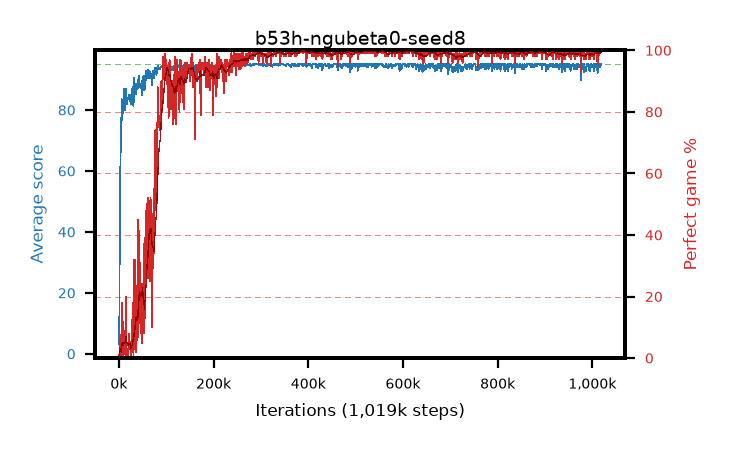
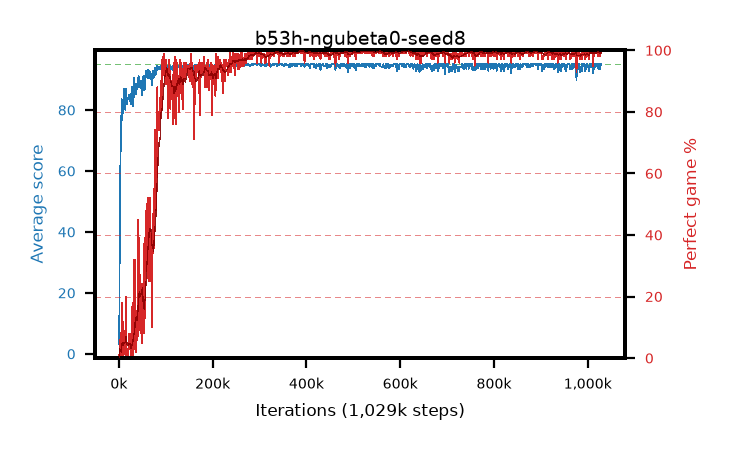
live pictures of 4 arm(s)

diff --git a/results/b53e-ngubeta0-seed5/b53e-ngubeta0-seed5.md b/results/b53e-ngubeta0-seed5/b53e-ngubeta0-seed5.md
@@ -1,6 +1,6 @@
 # b53e-ngubeta0-seed5
 
-step **1,009,000** · 1009 evals · trailing **94.23** · peak **94.95** @437,000 · sef **90.0** · best30 **99.8** @530,000
+step **1,019,000** · 1019 evals · trailing **94.11** · peak **94.95** @437,000 · sef **90.1** · best30 **99.8** @530,000
 
 ## Config
 
@@ -80,15 +80,15 @@ step **1,009,000** · 1009 evals · trailing **94.23** · peak **94.95** @437,00
 | 2000 | 29.39 | 17.35 | 3.0 | 54.0 | 24.459 | 0.0 | 0.4 |
 | 3000 | 50.81 | 28.5 | 16.0 | 85.0 | 45.457 | 0.0 | 0.4 |
 | ... | ... | ... | ... | ... | ... | ... | ... |
-| 998000 | 95.0 | 94.41 | 95.0 | 95.0 | 193.777 | 100.0 | 0.4 |
-| 999000 | 94.26 | 94.41 | 21.0 | 95.0 | 191.995 | 99.0 | 0.4 |
-| 1000000 | 94.29 | 94.41 | 24.0 | 95.0 | 192.034 | 99.0 | 0.4 |
-| 1001000 | 93.46 | 94.36 | 14.0 | 95.0 | 190.169 | 98.0 | 0.4 |
-| 1002000 | 93.09 | 94.29 | 16.0 | 95.0 | 188.754 | 97.0 | 0.4 |
-| 1003000 | 92.82 | 94.24 | 19.0 | 95.0 | 188.49 | 97.0 | 0.4 |
-| 1004000 | 93.43 | 94.23 | 14.0 | 95.0 | 189.135 | 97.0 | 0.4 |
-| 1005000 | 95.0 | 94.28 | 95.0 | 95.0 | 193.775 | 100.0 | 0.4 |
-| 1006000 | 95.0 | 94.3 | 95.0 | 95.0 | 193.779 | 100.0 | 0.4 |
-| 1007000 | 94.31 | 94.28 | 26.0 | 95.0 | 192.051 | 99.0 | 0.4 |
 | 1008000 | 93.49 | 94.23 | 18.0 | 95.0 | 190.194 | 98.0 | 0.4 |
 | 1009000 | 95.0 | 94.23 | 95.0 | 95.0 | 193.778 | 100.0 | 0.4 |
+| 1010000 | 95.0 | 94.23 | 95.0 | 95.0 | 193.778 | 100.0 | 0.4 |
+| 1011000 | 93.58 | 94.21 | 22.0 | 95.0 | 190.287 | 98.0 | 0.4 |
+| 1012000 | 95.0 | 94.21 | 95.0 | 95.0 | 193.781 | 100.0 | 0.4 |
+| 1013000 | 95.0 | 94.21 | 95.0 | 95.0 | 193.781 | 100.0 | 0.4 |
+| 1014000 | 94.24 | 94.21 | 19.0 | 95.0 | 191.983 | 99.0 | 0.4 |
+| 1015000 | 94.26 | 94.18 | 21.0 | 95.0 | 191.996 | 99.0 | 0.4 |
+| 1016000 | 92.75 | 94.16 | 18.0 | 95.0 | 188.403 | 97.0 | 0.4 |
+| 1017000 | 93.42 | 94.18 | 15.0 | 95.0 | 190.122 | 98.0 | 0.4 |
+| 1018000 | 92.76 | 94.11 | 17.0 | 95.0 | 188.424 | 97.0 | 0.4 |
+| 1019000 | 93.55 | 94.11 | 20.0 | 95.0 | 190.25 | 98.0 | 0.4 |

diff --git a/results/b53h-ngubeta0-seed8/b53h-ngubeta0-seed8.md b/results/b53h-ngubeta0-seed8/b53h-ngubeta0-seed8.md
@@ -1,6 +1,6 @@
 # b53h-ngubeta0-seed8
 
-step **1,019,000** · 1019 evals · trailing **94.38** · peak **94.92** @356,000 · sef **90.8** · best30 **99.7** @539,000
+step **1,029,000** · 1029 evals · trailing **94.45** · peak **94.92** @356,000 · sef **90.9** · best30 **99.7** @539,000
 
 ## Config
 
@@ -80,15 +80,15 @@ step **1,019,000** · 1019 evals · trailing **94.38** · peak **94.92** @356,00
 | 2000 | 50.19 | 26.7 | 2.0 | 95.0 | 51.185 | 6.0 | 0.4 |
 | 3000 | 57.71 | 37.03 | 27.0 | 95.0 | 54.481 | 2.0 | 0.4 |
 | ... | ... | ... | ... | ... | ... | ... | ... |
-| 1008000 | 94.26 | 94.2 | 21.0 | 95.0 | 191.996 | 99.0 | 0.4 |
-| 1009000 | 95.0 | 94.2 | 95.0 | 95.0 | 193.782 | 100.0 | 0.4 |
-| 1010000 | 95.0 | 94.2 | 95.0 | 95.0 | 193.773 | 100.0 | 0.4 |
-| 1011000 | 91.96 | 94.14 | 14.0 | 95.0 | 185.585 | 95.0 | 0.4 |
-| 1012000 | 95.0 | 94.14 | 95.0 | 95.0 | 193.783 | 100.0 | 0.4 |
-| 1013000 | 93.55 | 94.18 | 15.0 | 95.0 | 190.247 | 98.0 | 0.4 |
-| 1014000 | 95.0 | 94.2 | 95.0 | 95.0 | 193.781 | 100.0 | 0.4 |
-| 1015000 | 95.0 | 94.26 | 95.0 | 95.0 | 193.785 | 100.0 | 0.4 |
-| 1016000 | 95.0 | 94.31 | 95.0 | 95.0 | 193.78 | 100.0 | 0.4 |
-| 1017000 | 94.22 | 94.35 | 17.0 | 95.0 | 191.955 | 99.0 | 0.4 |
 | 1018000 | 95.0 | 94.35 | 95.0 | 95.0 | 193.782 | 100.0 | 0.4 |
 | 1019000 | 95.0 | 94.38 | 95.0 | 95.0 | 193.779 | 100.0 | 0.4 |
+| 1020000 | 95.0 | 94.38 | 95.0 | 95.0 | 193.775 | 100.0 | 0.4 |
+| 1021000 | 94.94 | 94.4 | 89.0 | 95.0 | 192.706 | 99.0 | 0.4 |
+| 1022000 | 94.23 | 94.38 | 25.0 | 95.0 | 190.923 | 98.0 | 0.4 |
+| 1023000 | 93.49 | 94.35 | 15.0 | 95.0 | 190.188 | 98.0 | 0.4 |
+| 1024000 | 95.0 | 94.42 | 95.0 | 95.0 | 193.781 | 100.0 | 0.4 |
+| 1025000 | 94.29 | 94.47 | 24.0 | 95.0 | 192.033 | 99.0 | 0.4 |
+| 1026000 | 93.5 | 94.45 | 15.0 | 95.0 | 190.208 | 98.0 | 0.4 |
+| 1027000 | 94.26 | 94.42 | 21.0 | 95.0 | 192.006 | 99.0 | 0.4 |
+| 1028000 | 95.0 | 94.45 | 95.0 | 95.0 | 193.78 | 100.0 | 0.4 |
+| 1029000 | 95.0 | 94.45 | 95.0 | 95.0 | 193.782 | 100.0 | 0.4 |
